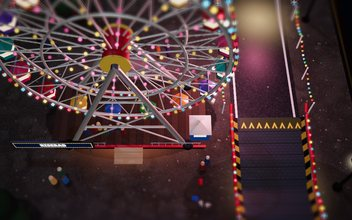
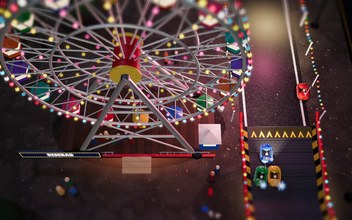
Grand Duchy Cup in the menu; Fouer Frenzy thumbnail with bumper cars
Claude-Session: https://claude.ai/code/session_01CBMbxZ4rM9KsjSbdit2Vfx

diff --git a/js/worlds/index.js b/js/worlds/index.js
@@ -42,7 +42,7 @@ const ALL = [
   moselle, fouer, grund, oldtown,
 ];
 // Worlds still under construction can be listed here: they stay out of the menu but load with ?world=<id>.
-const IN_PROGRESS = new Set(['moselle', 'fouer', 'grund', 'oldtown']);
+const IN_PROGRESS = new Set([]);
 export const WORLDS = ALL.filter((w) => !IN_PROGRESS.has(w.id));
 export function worldById(id) { return ALL.find((w) => w.id === id) || WORLDS[0]; }
 // the playable tables of a cup, in cup order
